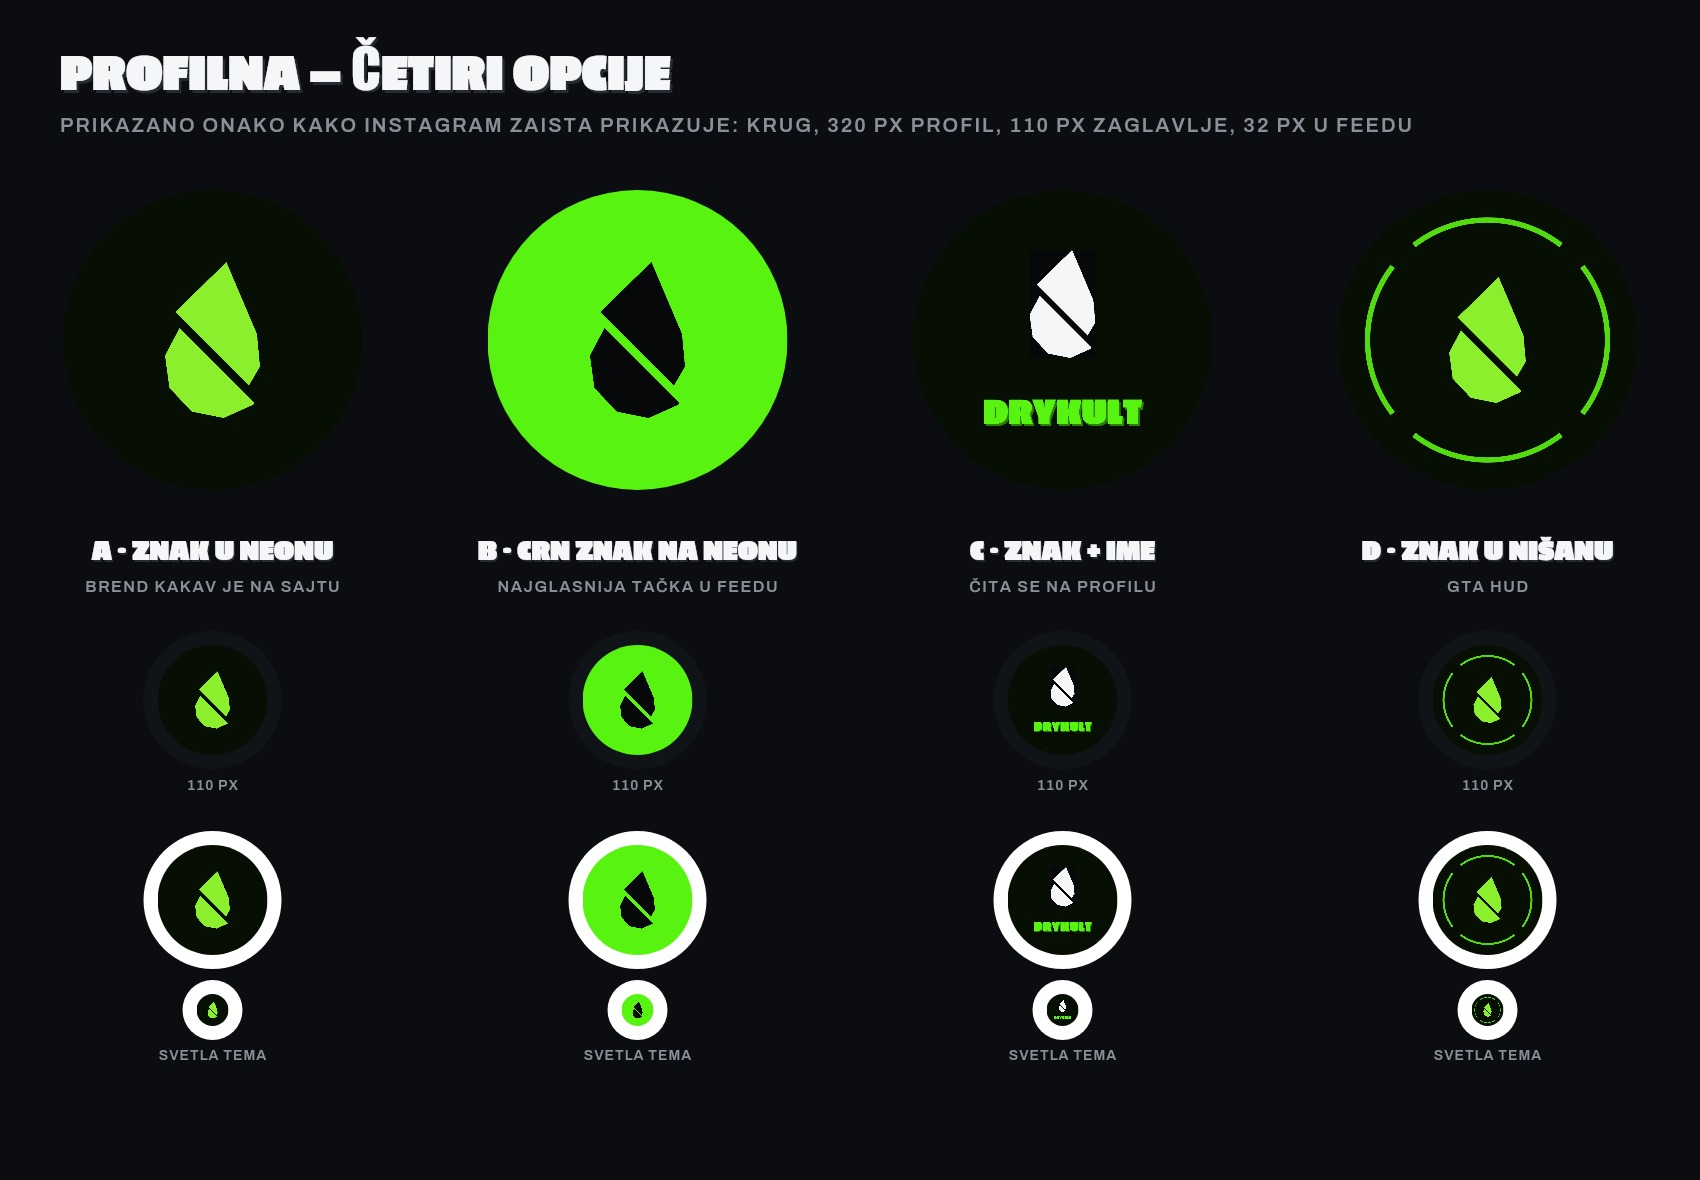
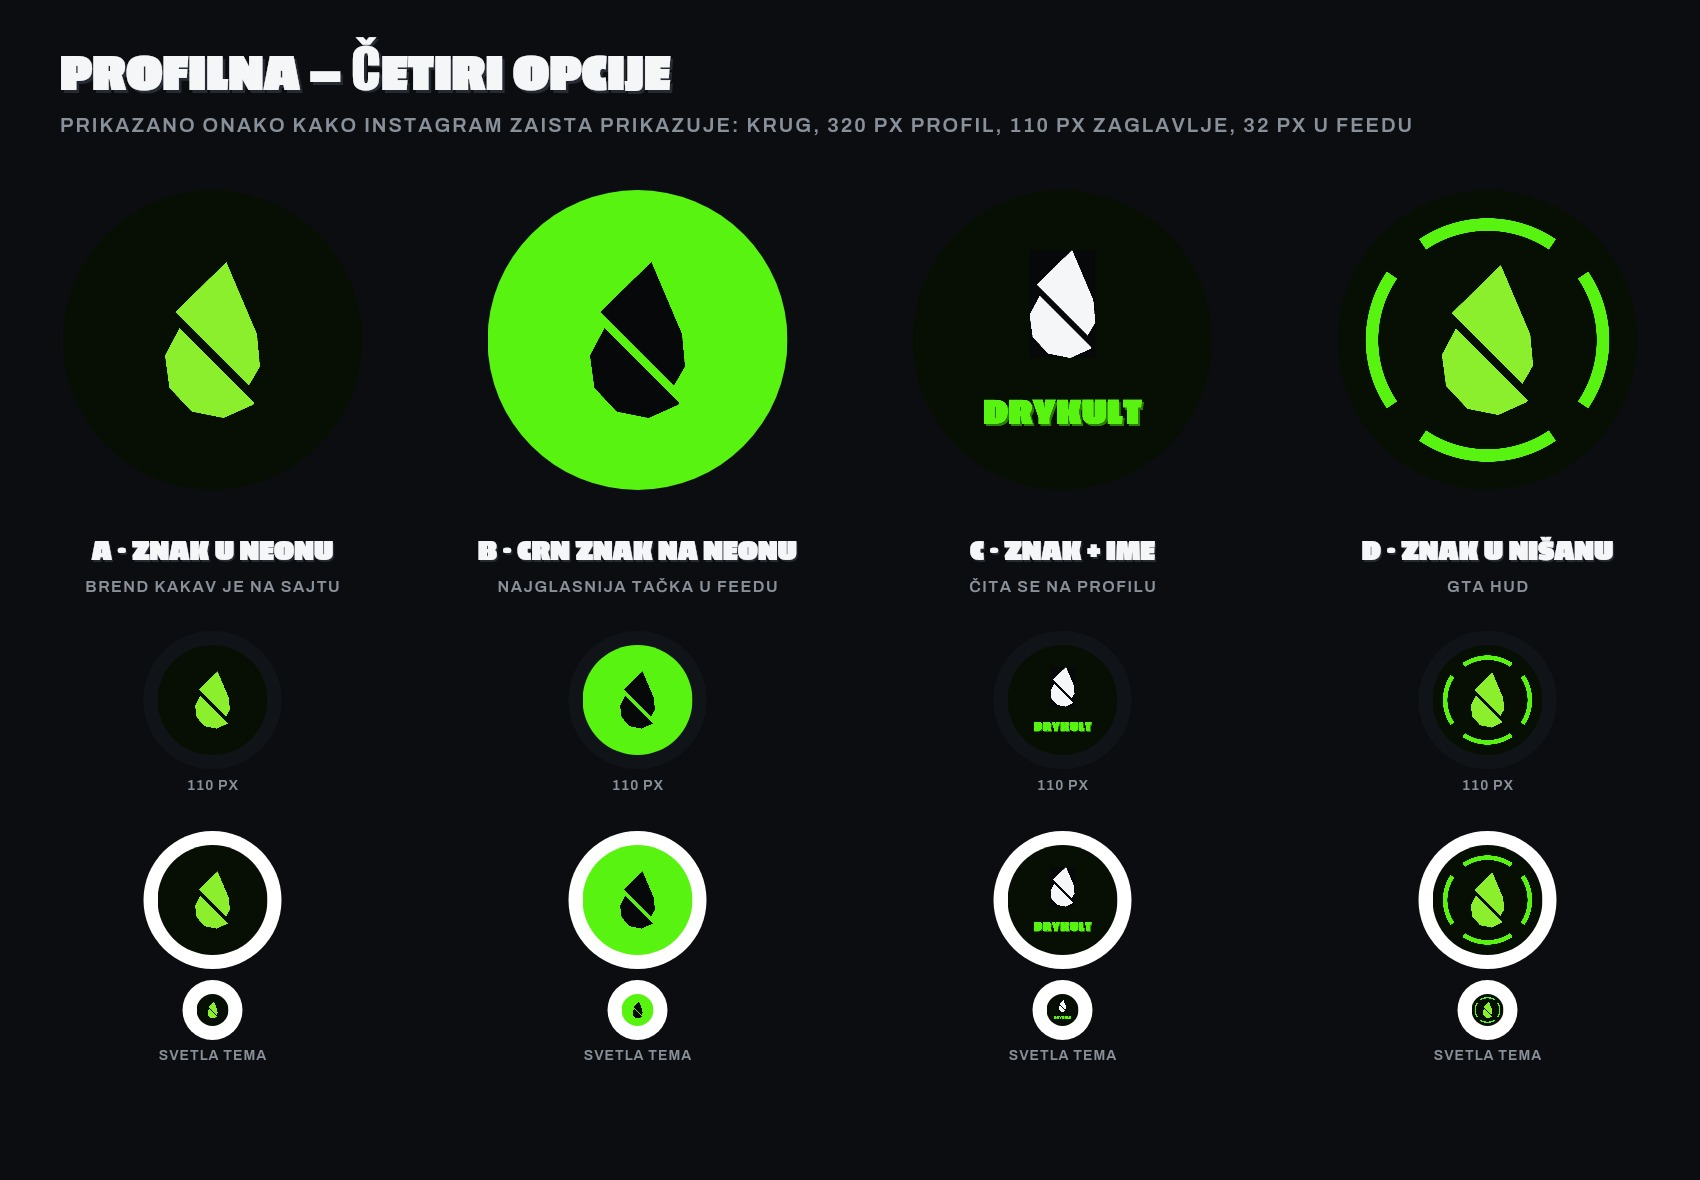
Profilna je D (znak u nisanu), prsten podesen za 32 px
Stefanov izbor 28. 9. Prsten je prepravljen: bio je 0.018 x P, sto u feedu ispadne
pola piksela i prosto nestane. Sada 0.042 (~1,4 px na 32), znak krupniji, prorezi
siri da se i na maloj velicini vidi da je nisan a ne pun krug. Mockup profila sada
koristi D.

diff --git a/plan/06-INSTAGRAM.md b/plan/06-INSTAGRAM.md
@@ -8,8 +8,8 @@ Sve je nacrtano skriptom: `node scripts/gen-instagram.mjs` → folder `instagram
 Menjaš tekst u skripti, pustiš je ponovo, sve se osveži. Ništa se ne crta rukom.
 
 > **ODLUČENO 28. 9. 2026 (Stefan):** zid ide u pravcu **A — DOSIJE**, profilna je
-> **B — crn znak na neon krugu**, biografija je **A — manifest**. Sve troje je
-> ispod podebljano i izvedeno; ostale opcije ostaju zapisane samo da se zna šta je
+> **D — znak u nišanu**, biografija je **A — manifest**. Sve troje je ispod
+> podebljano i izvedeno; ostale opcije ostaju zapisane samo da se zna šta je
 > odbačeno i zašto, da se za pola godine ne prežvakava isto.
 
 ---
@@ -30,15 +30,21 @@ Pregled: `instagram/pregled/profilna.jpg` (prikazano u pravim veličinama — kr
 | | opcija | šta dobijaš | šta gubiš |
 |---|---|---|---|
 | **A** | znak u neonu na crnom | brend tačno kao na sajtu | na 32 px se stapa sa tamnim feedom |
-| **B** | **crn znak na neon krugu** | **najglasnija tačka u tuđem feedu, čita se i na 32 px** | odstupa od „crno je podloga" pravila |
+| **B** | crn znak na neon krugu | najglasnija tačka u tuđem feedu | odstupa od „crno je podloga" pravila |
 | **C** | znak + ime | čita se na profilu | ime je mrlja na 32 px, znak se smanjio |
-| **D** | znak u nišanu | GTA HUD ton | prsten pojede znak na malim veličinama |
+| **D** | **znak u nišanu** | **GTA HUD ton, ostaje na crnom kao i ceo brend** | traži debeo prsten da se vidi u feedu |
 
-> **IZABRANO: B.** Profilna se u feedu vidi kao **32 px krug** — tu ne postoji
-> „suptilno". Pun neon krug je jedina varijanta koju oko uhvati pre nego što
-> pročita ime. A je tačniji brendu, ali na maloj veličini nestaje.
+> **IZABRANO: D.** Jedini akcenat je neon na crnom, isto kao sajt — brend ne mora
+> da menja pravila da bi se video. Prsten je **nišan**, ne ukras: čita se kao GTA
+> HUD, a znak ostaje u sredini netaknut.
+>
+> **Prsten je prepravljen zbog 32 px.** Prva verzija je imala debljinu `0.018 × P`,
+> što u feedu ispadne **pola piksela** — prsten prosto nestane i ostane sitan znak
+> na crnom. Sada je `0.042` (≈ 1,4 px na 32), znak je krupniji, a četiri proreza su
+> šira da se i na maloj veličini vidi da je nišan, a ne pun krug. Provereno na
+> listu `instagram/pregled/profilna.jpg`, u pravim veličinama.
 
-Fajl za postavljanje: **`instagram/profilna/profilna-b.png`** (1080 × 1080).
+Fajl za postavljanje: **`instagram/profilna/profilna-d.png`** (1080 × 1080).
 Ostale tri stoje u istom folderu ako se ikad predomisliš.
 
 ## 6.3 Biografija — tri verzije
@@ -173,7 +179,7 @@ Tekst uz reel:
 ## 6.10 [TI] Pre prve objave
 
 - [ ] Uzmi ručku `@drykult` (i na TikToku)
-- [x] ~~Izaberi profilnu i biografiju~~ — **B** i **A**, 28. 9.
+- [x] ~~Izaberi profilnu i biografiju~~ — **D (nišan)** i **A (manifest)**, 28. 9.
 - [x] ~~Reci koji pravac zida~~ — **A (DOSIJE)**, 28. 9.
 - [ ] Domen, da biografija ne vodi na `vercel.app` (`plan/01` 1.3)
 - [ ] Odluči da li ide i TikTok odmah — isti materijal, samo uspravan format
